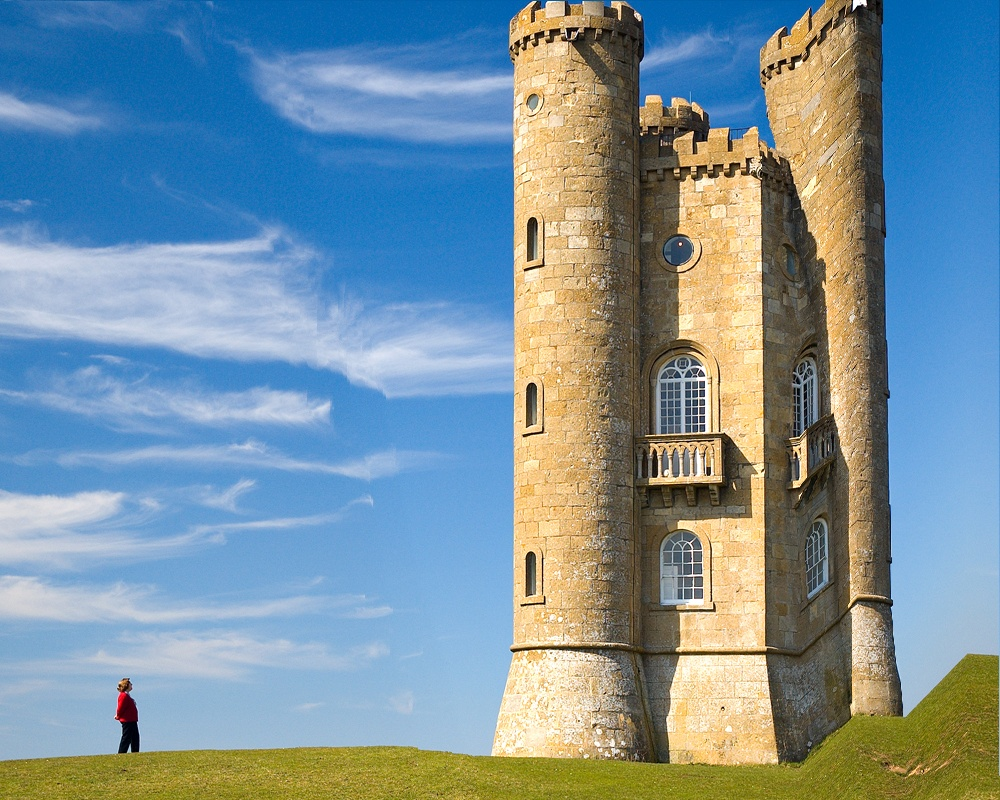
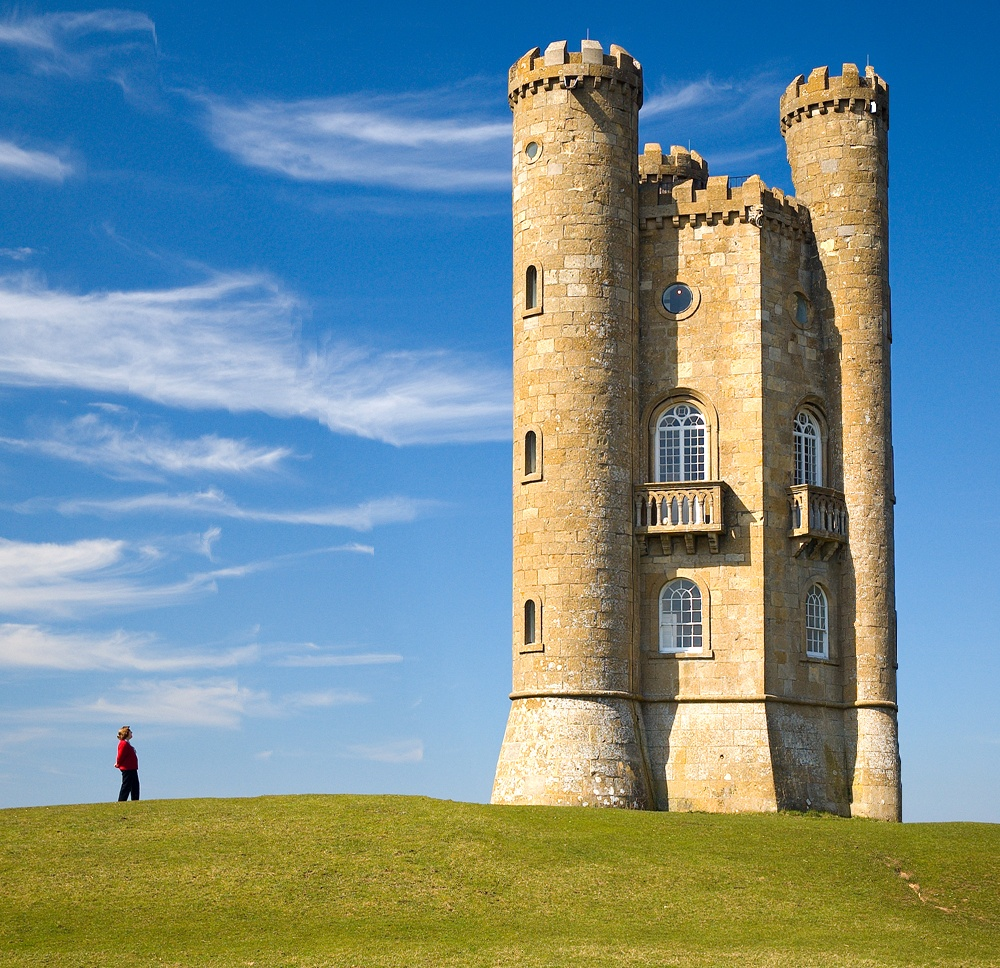
Vertical Seam Bug solved

diff --git a/Seam Carving/sc.cpp b/Seam Carving/sc.cpp
@@ -10,62 +10,49 @@
 using namespace cv;
 using namespace std;
 int  *verticalMatrix;
-//int  *horizontalMatrix;
-ofstream OUTPUT_FILE("matrix.txt");
 void removePixel(Mat& image, Mat& output, int *seam) {
-	//OUTPUT_FILE << "Start Removing Pixel : " << image.rows << " " << image.cols << endl;
-	/*for (int r = 0; r < image.rows; r++) {
-		OUTPUT_FILE << " SEAM " << r << " : " << seam[r]<<endl;
-	}*/
-	for (int r = 0; r < image.rows; r++) {
-		for (int c = 0; c < image.cols - 1; c++) {
-			if (c >= seam[r]) {
-				//		OUTPUT_FILE << r << " " << c << " : " << seam[r] << endl;
-				output.at<Vec3b>(r, c) = image.at<Vec3b>(r, c + 1);
+	for (int row = 0; row < image.rows; row++) {
+		for (int col = 0; col < image.cols - 1; col++) {
+			if (col >= seam[row]) {
+				output.at<Vec3b>(row, col) = image.at<Vec3b>(row, col + 1);
 			}
 			else {
-				//			OUTPUT_FILE << r << " " << c << " : " << seam[r] << endl;
-				output.at<Vec3b>(r, c) = image.at<Vec3b>(r, c);
+				output.at<Vec3b>(row, col) = image.at<Vec3b>(row, col);
 			}
 		}
 	}
-	//OUTPUT_FILE << "END Removing Pixel" << endl;
-	//imwrite("tempOutput.jpg"/*argv[4]*/, output);
-
 }
 void removeHorizontalPixel(Mat& image, Mat& output, int *seam) {
-	for (int c = 0; c < image.cols; c++) {
-		for (int r = 0; r < image.rows - 1; r++) {
-			if (r >= seam[c]) {
-				output.at<Vec3b>(r, c) = image.at<Vec3b>(r + 1,c);
+	for (int col = 0; col < image.cols; col++) {
+		for (int row = 0; row < image.rows - 1; row++) {
+			if (row >= seam[col]) {
+				output.at<Vec3b>(row, col) = image.at<Vec3b>(row + 1, col);
 			}
 			else {
-				output.at<Vec3b>(r, c) = image.at<Vec3b>(r, c);
+				output.at<Vec3b>(row, col) = image.at<Vec3b>(row, col);
 			}
 		}
 	}
 }
 int *currentHorizontalSeam(Mat &image) {
 	for (int i = 0; i < image.rows; i++) {
-		//OUTPUT_FILE<<image.rows<<" --->" << i << " " << (int)image.at<uchar>(i, 0) << endl;
 		*(verticalMatrix + i * image.rows + 0) = (int)image.at<uchar>(i, 0);
 	}
 	for (int j = 1; j < image.cols; j++) {
 		for (int i = 0; i < image.rows; i++) {
 			if (i == 0) {
-				int x = *(verticalMatrix + (i) * image.rows + (j - 1));
+				int x = *(verticalMatrix + (i)* image.rows + (j - 1));
 				int y = *(verticalMatrix + (i + 1) * image.rows + (j - 1));
 				*(verticalMatrix + i * image.rows + j) = (int)image.at<uchar>(i, j) + min(x, y);
 			}
 			else if (i == image.rows - 1) {
-				*(verticalMatrix + i * image.rows + j) = (int)image.at<uchar>(i, j) + min(*(verticalMatrix + (i - 1) * image.rows + (j - 1)), *(verticalMatrix + (i) * image.rows + (j - 1)));
+				*(verticalMatrix + i * image.rows + j) = (int)image.at<uchar>(i, j) + min(*(verticalMatrix + (i - 1) * image.rows + (j - 1)), *(verticalMatrix + (i)* image.rows + (j - 1)));
 			}
 			else {
 				int x = *(verticalMatrix + (i)* image.rows + (j - 1));
 				int y = *(verticalMatrix + (i + 1) * image.rows + (j - 1));
 				int z = *(verticalMatrix + (i - 1)* image.rows + (j - 1));
-				//OUTPUT_FILE<<i <<","<<j<<" --------- >" << x << " : "<< y << " : " << z << endl;
-				int minimum = min({x,y,z});//min({ *(verticalMatrix + (i - 1) * image.rows + (j - 1)), *(verticalMatrix + (i) * image.rows + (j - 1)),*(verticalMatrix + (i + 1) * image.rows + (j - 1)) });
+				int minimum = min({ x,y,z });
 				*(verticalMatrix + i * image.rows + j) = (int)image.at<uchar>(i, j) + minimum;
 			}
 		}
@@ -80,162 +67,128 @@ int *currentHorizontalSeam(Mat &image) {
 	}
 	int *seamPath = new int[image.cols];
 	seamPath[image.cols - 1] = index;
-
-	int valueIndex = image.rows - 1;
-	int currentIndex = index;
-	//OUTPUT_FILE << valueIndex << " " << currentIndex << endl;
-	while (valueIndex != 0) {
-		value = *(verticalMatrix + valueIndex * image.rows + currentIndex) - (int)image.at<uchar>(valueIndex, currentIndex);
-		if (currentIndex == 0) {
-			if (value == *(verticalMatrix + (currentIndex + 1) * image.rows + (valueIndex - 1) )) {
-				currentIndex += 1;
+	int column = image.cols - 1;
+	int row = index;
+	while (column != 0) {
+		value = *(verticalMatrix + row * image.rows + column) - (int)image.at<uchar>(row, column);
+		if (row == 0) {
+			if (value == *(verticalMatrix + (row + 1) * image.rows + (column - 1))) {
+				row += 1;
 			}
 		}
-		else  if (currentIndex == image.cols - 1) {
-			if (value == *(verticalMatrix + (currentIndex - 1) * image.rows + (valueIndex - 1))) {
-				currentIndex -= 1;
-			}
-			else if (value == *(verticalMatrix + (currentIndex + 1) * image.rows + (valueIndex - 1))) {
-				currentIndex += 1;
+		else  if (row == image.cols - 1) {
+			if (value == *(verticalMatrix + (row - 1) * image.rows + (column - 1))) {
+				row -= 1;
 			}
 		}
 		else {
-			if (value == *(verticalMatrix + (currentIndex - 1) * image.rows + (valueIndex - 1))) {
-				currentIndex -= 1;
+			if (value == *(verticalMatrix + (row - 1) * image.rows + (column - 1))) {
+				row -= 1;
+			}
+			else if (value == *(verticalMatrix + (row + 1) * image.rows + (column - 1))) {
+				row += 1;
 			}
 		}
-		valueIndex -= 1;
-		//OUTPUT_FILE << valueIndex << " " << currentIndex << endl;
-		seamPath[valueIndex] = currentIndex;
+		column -= 1;
+		seamPath[column] = row;
 	}
-	//OUTPUT_FILE << "END " << endl;
 	return seamPath;
 }
 
 int *currentSeam(Mat &image) {
-	//ofstream OUTPUT_FILE11("matrix111.txt");
 	for (int i = 0; i < image.cols; i++) {
 		*(verticalMatrix + 0 * image.rows + i) = (int)image.at<uchar>(0, i);
-		//OUTPUT_FILE << *(matrix + 0 * image.rows + i) << " " ;
 	}
-	//OUTPUT_FILE << endl;
-	//OUTPUT_FILE11 << "Image Width : " << image.cols << endl;
-	//OUTPUT_FILE11 << "Image Height : " << image.rows << endl;
 	for (int i = 1; i < image.rows; i++) {
-		//OUTPUT_FILE << i << " :  ";
 		for (int j = 0; j < image.cols; j++) {
 			if (j == 0) {
 				int x = *(verticalMatrix + (i - 1) * image.rows + j);
 				int y = *(verticalMatrix + (i - 1) * image.rows + (j + 1));
 				*(verticalMatrix + i * image.rows + j) = (int)image.at<uchar>(i, j) + min(x, y);
-				//	OUTPUT_FILE11 << *(matrix + i * image.rows + j) << " ";
 			}
 			else if (j == image.cols - 1) {
 				*(verticalMatrix + i * image.rows + j) = (int)image.at<uchar>(i, j) + min(*(verticalMatrix + (i - 1) * image.rows + (j - 1)), *(verticalMatrix + (i - 1) * image.rows + j));
-				//	OUTPUT_FILE11 << *(matrix + i * image.rows + j) << " ";
 			}
 			else {
-		//		OUTPUT_FILE11 << "--->" << i << " " << j << endl;
 				int minimum = min({ *(verticalMatrix + (i - 1) * image.rows + (j - 1)), *(verticalMatrix + (i - 1) * image.rows + j),*(verticalMatrix + (i - 1) * image.rows + (j + 1)) });
 				*(verticalMatrix + i * image.rows + j) = (int)image.at<uchar>(i, j) + minimum;
-				//	OUTPUT_FILE << *(matrix + i * image.rows + j) << " ";
 			}
 		}
-		//OUTPUT_FILE << endl;
 	}
 	int value = 2147483647;
 	int index = -1;
 	for (int i = 0; i < image.cols; i++) {
-		if (*(verticalMatrix + (image.rows - 1) * image.rows + i) <= value) {
+		if (*(verticalMatrix + (image.rows - 1) * image.rows + i) < value) {
 			value = *(verticalMatrix + (image.rows - 1) * image.rows + i);
 			index = i;
 		}
 	}
 	int *seamPath = new int[image.rows];
 	seamPath[image.rows - 1] = index;
-
-	int valueIndex = image.rows - 1;
-	int currentIndex = index;
-	//OUTPUT_FILE << valueIndex << " " << currentIndex << endl;
-	while (valueIndex != 0) {
-		value = *(verticalMatrix + valueIndex * image.rows + currentIndex) - (int)image.at<uchar>(valueIndex, currentIndex);
-		if (currentIndex == 0) {
-			if (value == *(verticalMatrix + (valueIndex - 1) * image.rows + (currentIndex + 1))) {
-				currentIndex += 1;
+	//int valueIndex = image.rows - 1;
+	//int currentIndex = index;
+	int row = image.rows - 1;
+	int column = index;
+	while (row != 0) {
+		value = *(verticalMatrix + row * image.rows + column) - (int)image.at<uchar>(row, column);
+		if (column == 0) {
+			if (value == *(verticalMatrix + (row - 1) * image.rows + (column + 1))) {
+				column += 1;
 			}
 		}
-		else  if (currentIndex == image.cols - 1) {
-			if (value == *(verticalMatrix + (valueIndex - 1)  * image.rows + (currentIndex - 1))) {
-				currentIndex -= 1;
+		else  if (column == image.cols - 1) {
+			if (value == *(verticalMatrix + (row - 1)  * image.rows + (column - 1))) {
+				column -= 1;
 			}
-			else if (value == *(verticalMatrix + (valueIndex - 1) * image.rows + (currentIndex + 1))) {
-				currentIndex += 1;
-			}
+
 		}
 		else {
-			if (value == *(verticalMatrix + (valueIndex - 1) * image.rows + (currentIndex - 1))) {
-				currentIndex -= 1;
+			if (value == *(verticalMatrix + (row - 1) * image.rows + (column - 1))) {
+				column -= 1;
+			}
+			else if (value == *(verticalMatrix + (row - 1) * image.rows + (column + 1))) {
+				column += 1;
 			}
 		}
-		valueIndex -= 1;
-		//OUTPUT_FILE << valueIndex << " " << currentIndex << endl;
-		seamPath[valueIndex] = currentIndex;
+		row -= 1;
+		seamPath[row] = column;
 	}
-	//OUTPUT_FILE << "END " << endl;
 	return seamPath;
 }
 void generateVerticalMatrix(Mat &image) {
 	verticalMatrix = (int *)malloc(image.rows * image.cols * sizeof(int));
 }
-void generateHorizontalMatrix(Mat &image) {
-	//horizontalMatrix = (int *)malloc(image.rows * image.cols * sizeof(int));
-}
-
 void performCarving(Mat &in_image, int new_width, int new_height, Mat &out_image) {
-	//imwrite("output1.jpg"/*argv[4]*/, out_image);
 	int width = in_image.cols;
 	int height = in_image.rows;
 	generateVerticalMatrix(in_image);
 	for (int i = 0; i < width - new_width; i++) {
-		cout << "----> " << in_image.cols << endl;
 		Mat output(in_image.rows, in_image.cols - 1, CV_8UC3);
 		reduce_vertical_seam_trivial(in_image, output);
 		in_image = output;
 	}
-	//free(verticalMatrix);
-	//generateHorizontalMatrix(in_image);
 	width = in_image.cols;
 	cout << in_image.rows << " " << in_image.cols << endl;
 	for (int i = 0; i < height - new_height; i++) {
-		cout << "1111----> " << in_image.rows << endl;
 		Mat output(in_image.rows - 1, in_image.cols, CV_8UC3);
 		reduce_horizontal_seam_trivial(in_image, output);
 		in_image = output;
 	}
+	out_image = in_image;
 	imwrite("tempOutput.jpg"/*argv[4]*/, in_image);
-}
-void normalizeImage(Mat &output) {
-	double maximumElement;
-	double minimumElement;
-	minMaxLoc(output, &minimumElement, &maximumElement);
-	output = output * (1 / maximumElement * 255);
-	output.convertTo(output, CV_8U);
 }
 void calculateEnergy(Mat &gray_image, Mat &output) {
 	Mat sobel_x;
 	Mat sobel_y;
-	cvtColor(gray_image, gray_image, COLOR_BGR2GRAY);/*
-	Sobel(gray_image, sobel_x, CV_64F, 1, 0);
-	Sobel(gray_image, sobel_y, CV_64F, 0, 1);
-	magnitude(sobel_x, sobel_y, output);
-	normalizeImage(output);*/
+	GaussianBlur(gray_image, gray_image, Size(3, 3), 0, 0, BORDER_DEFAULT);
+	cvtColor(gray_image, gray_image, COLOR_BGR2GRAY);
 	Mat absolute_x, absolute_y;
+	Mat gradient;
 	Sobel(gray_image, sobel_x, CV_16S, 1, 0, 3, 1, 0, BORDER_DEFAULT);
 	Sobel(gray_image, sobel_y, CV_16S, 0, 1, 3, 1, 0, BORDER_DEFAULT);
 	convertScaleAbs(sobel_x, absolute_x);
 	convertScaleAbs(sobel_y, absolute_y);
 	addWeighted(absolute_x, 0.5, absolute_y, 0.5, 0, output);
-
 }
 
 
@@ -276,7 +229,6 @@ void reduce_horizontal_seam_trivial(Mat& in_image, Mat& out_image) {
 	Mat tempOutput;
 	Mat GRAY_IMAGE = in_image.clone();
 	calculateEnergy(GRAY_IMAGE, tempOutput);
-	//imwrite("tempOutput.jpg"/*argv[4]*/, tempOutput);
 	int *seam = currentHorizontalSeam(tempOutput);
 	removeHorizontalPixel(in_image, out_image, seam);
 }
@@ -288,7 +240,6 @@ void reduce_vertical_seam_trivial(Mat& in_image, Mat& out_image) {
 	Mat tempOutput;
 	Mat GRAY_IMAGE = in_image.clone();
 	calculateEnergy(GRAY_IMAGE, tempOutput);
-	//imwrite("tempOutput.jpg"/*argv[4]*/, tempOutput);
 	int *seam = currentSeam(tempOutput);
 	removePixel(in_image, out_image, seam);
 }

diff --git a/Seam Carving/Seam Carving.cpp b/Seam Carving/Seam Carving.cpp
@@ -35,7 +35,7 @@ int main(int argc, char** argv)
 
 	// get the new dimensions from the argument list
 	int new_width = 1000;//atoi(argv[2]);
-	int new_height = 800;//atoi(argv[3]);
+	int new_height = 700;//atoi(argv[3]);
 
 	// the output image
 	Mat out_image;
